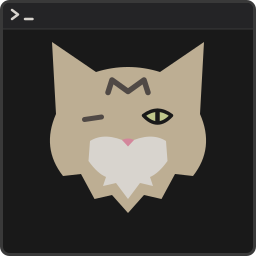
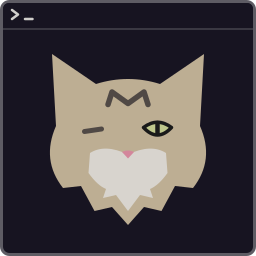
feat: use the built-in GNOME palette and lower Astro's head

Changed region(s): [[0.1875, 0.1562, 0.8125, 0.875], [0.0, 0.0, 1.0, 1.0]]

diff --git a/tests/test_theme.py b/tests/test_theme.py
@@ -1,27 +1,30 @@
 # SPDX-License-Identifier: GPL-3.0-or-later
 import importlib.util
+import json
 from pathlib import Path
 import unittest
 
 ROOT = Path(__file__).resolve().parents[1]
 
 
-class CodexThemeTests(unittest.TestCase):
-    def test_terminal_chrome_uses_paper_and_codex_blue_without_changing_layout(self):
+class GnomeThemeTests(unittest.TestCase):
+    def test_palette_matches_all_sixteen_builtin_gnome_colors(self):
         options = {}
         for line in (ROOT/'config/kitty.conf').read_text().splitlines():
             if line.strip() and not line.lstrip().startswith('#'):
                 key, value = line.split(maxsplit=1)
                 options[key] = value
-        for key in ['foreground','cursor','selection_foreground','window_title_bar_active_foreground','active_tab_foreground','color7','color15']:
-            self.assertEqual(options[key], '#d8d4ce', key)
-        self.assertEqual(options['active_border_color'], '#63a8f8')
-        self.assertEqual(options['window_title_bar_active_background'], '#242426')
-        self.assertEqual(options['background'], '#191919')
+        colors = json.loads((ROOT/'tests/fixtures/gnome-palette.json').read_text())['colors']
+        self.assertEqual(len(colors),16)
+        self.assertEqual([options[f'color{i}'] for i in range(16)],colors)
+        self.assertEqual(options['foreground'], colors[7])
+        self.assertEqual(options['background'], colors[0])
+        self.assertEqual(options['active_border_color'], colors[12])
+        self.assertEqual(options['bold_text_in_bright_colors'], 'no')
         self.assertEqual(options['shell'], '/bin/bash --login')
         self.assertIn('splits:', options['enabled_layouts'])
 
-    def test_agent_badges_share_the_neutral_paper_title_color(self):
+    def test_agent_badges_inherit_the_gnome_title_color(self):
         spec = importlib.util.spec_from_file_location('astro_title_theme', ROOT/'config/window_title_bar.py')
         assert spec is not None and spec.loader is not None
         module = importlib.util.module_from_spec(spec)
@@ -29,7 +32,7 @@ class CodexThemeTests(unittest.TestCase):
         self.assertEqual(set(module._AGENTS), {'claude','codex','hermes'})
         for glyph, name, override in module._AGENTS.values():
             self.assertTrue(glyph and name)
-            self.assertIsNone(override, 'agent names must inherit the Codex-style Paper title')
+            self.assertIsNone(override, 'agent names must inherit the GNOME title color')
 
 
 if __name__ == '__main__':

diff --git a/tools/build_brand.py b/tools/build_brand.py
@@ -17,7 +17,7 @@ def build_logo():
     for child in source:
         if child.tag.rsplit('}', 1)[-1] not in ('title', 'desc'):
             icon.append(child)
-    word = ET.SubElement(logo, f'{{{SVG}}}g', {'transform': 'translate(326 76)', 'fill': 'none', 'stroke': '#d8d4ce', 'stroke-width': '11', 'stroke-linecap': 'square', 'stroke-linejoin': 'round'})
+    word = ET.SubElement(logo, f'{{{SVG}}}g', {'transform': 'translate(326 76)', 'fill': 'none', 'stroke': '#d0cfcc', 'stroke-width': '11', 'stroke-linecap': 'square', 'stroke-linejoin': 'round'})
     letters = [
         'M0 100 30 0 60 100M12 64H48',
         'M60 4H16Q0 4 0 20V31Q0 46 16 49L44 54Q60 57 60 72V83Q60 100 44 100H0',
@@ -27,8 +27,8 @@ def build_logo():
     ]
     for i, letter in enumerate(letters):
         ET.SubElement(word, f'{{{SVG}}}path', d=letter, transform=f'translate({i*134} 0)')
-    ET.SubElement(logo, f'{{{SVG}}}path', {'d': 'M326 217h70', 'stroke': '#63a8f8', 'stroke-width': '5'})
-    text = ET.SubElement(logo, f'{{{SVG}}}text', {'x': '421', 'y': '223', 'fill': '#99968f', 'font-family': 'monospace', 'font-size': '17', 'letter-spacing': '2'})
+    ET.SubElement(logo, f'{{{SVG}}}path', {'d': 'M326 217h70', 'stroke': '#2a7bde', 'stroke-width': '5'})
+    text = ET.SubElement(logo, f'{{{SVG}}}text', {'x': '421', 'y': '223', 'fill': '#5e5c64', 'font-family': 'monospace', 'font-size': '17', 'letter-spacing': '2'})
     text.text = 'QUIET COMPANY. SHARP TOOLS.'
     ET.indent(logo, space='  ')
     ET.ElementTree(logo).write(ROOT / 'assets/astro-logo.svg', encoding='unicode', xml_declaration=False)

diff --git a/tests/test_brand.py b/tests/test_brand.py
@@ -18,6 +18,11 @@ class BrandTests(unittest.TestCase):
         self.assertLessEqual(float(window.get('rx','999')), 20, 'corners must only be slightly rounded')
         self.assertIsNotNone(svg.find(".//*[@id='terminal-titlebar']"))
         self.assertIsNotNone(svg.find(".//*[@id='terminal-prompt']"))
+        head = svg.find(".//*[@id='cat-head']")
+        self.assertIsNotNone(head, 'position the entire cat head as one group')
+        assert head is not None
+        self.assertEqual(head.get('transform'), 'translate(0 24)')
+        self.assertIsNotNone(head.find(".//*[@id='eye-open-viewer-right']"))
         opened = svg.find(".//*[@id='eye-open-viewer-right']")
         closed = svg.find(".//*[@id='eye-closed-viewer-left']")
         self.assertIsNotNone(opened, 'open eye must be on the reference image-right')

diff --git a/tests/test_prompt.py b/tests/test_prompt.py
@@ -21,9 +21,9 @@ class PromptTests(unittest.TestCase):
 
     def test_prompt_uses_astro_colors_and_preserves_shell_placeholders(self):
         prompt = self.prompt()
-        for color in ['216;212;206', '153;150;143', '99;168;248']:
-            self.assertIn('38;2;'+color+'m', prompt)
-        self.assertIn(r'\e[38;2;216;212;206m\]\h', prompt, 'hostname must use Paper, not taupe/grey')
+        self.assertIn(r'\e[37m\]\h', prompt, 'hostname must follow GNOME ANSI white')
+        self.assertIn(r'\e[94m\]', prompt)
+        self.assertNotIn('38;2;', prompt, 'do not override the built-in palette with custom RGB')
         for placeholder in [r'\u', r'\h', r'\w', r'\$']:
             self.assertIn(placeholder, prompt)
         self.assertEqual(prompt.count(r'\['), prompt.count(r'\]'))

diff --git a/config/astro_intro.py b/config/astro_intro.py
@@ -147,9 +147,9 @@ def frame(effect: int, t: float, width: int = 64, height: int = 24) -> list[str]
     return [''.join(row) for row in grid]
 
 
-# Paper/blue chrome follows the terminal; the cat retains its fur and eye colors.
-COLORS = {'fur': '189;165;133', 'cream': '216;212;206', 'eye': '184;187;106',
-          'nose': '211;134;155', 'dim': '153;150;143', 'sky': '99;168;248'}
+# GNOME text/accents follow the terminal; the cat retains its fur and eye colors.
+COLORS = {'fur': '189;165;133', 'cream': '208;207;204', 'eye': '184;187;106',
+          'nose': '211;134;155', 'dim': '94;92;100', 'sky': '42;123;222'}
 
 
 def ansi_frame(rows: list[str], colors: bool = True) -> str:

diff --git a/README.md b/README.md
@@ -18,8 +18,9 @@ pale green eye is on the viewer's right. The icon and both ASCII cat poses keep
 that exact orientation; do not mirror them. The cat stays minimal, without
 detailed whiskers or cheek stripes. Its background is a terminal window with
 only slightly rounded corners (16px radius on a 512px canvas), a title bar and
-a small prompt. Paper text and blue accents connect the icon and wordmark to
-the Codex-style terminal chrome; the cat retains its natural fur and eye colors.
+a small prompt. The entire cat head sits 24 SVG units lower beneath the title
+bar. GNOME palette colors connect the frame and wordmark to the terminal;
+the cat retains its natural fur and eye colors.
 Reference photographs are personal and are not distributed in this repository.
 
 New Bash terminal panes greet you with a short CPU-only ASCII animation:
@@ -46,11 +47,9 @@ python3 ~/.config/kitty/astro_intro.py --effect 6 --duration 3
 
 **Astro Bash prompt**
 
-The familiar `user@host:path$` layout uses Paper (`#d8d4ce`) for the username,
-hostname and directory, muted separators (`#99968f`) and a Codex-blue prompt
-symbol (`#63a8f8`). The Paper tone is sampled from the owner's Codex reference;
-blue matches Codex 0.162.1's documented `UI_ACCENT` / `CHATGPT_BLUE_200` in
-[`style.rs`](https://github.com/openai/codex/blob/rust-v0.162.1/codex-rs/tui/src/style.rs).
+The familiar `user@host:path$` layout uses GNOME ANSI white for the username,
+hostname and directory, muted separators and a bright-blue prompt symbol.
+ANSI palette references replace the former custom RGB prompt colors.
 This is scoped to interactive Kitty Bash sessions; other terminals
 are unchanged. Readline wrapping and kitty's native shell integration remain
 intact. Set `ASTRO_PROMPT=off` to keep your existing prompt; `NO_COLOR` or a dumb
@@ -87,7 +86,7 @@ source ~/.config/kitty/astro_prompt.bash
 
 **Agent-aware panes**
 
-- Panes running `claude`, `codex` or `hermes` get a neutral Paper badge
+- Panes running `claude`, `codex` or `hermes` get a neutral GNOME-colored badge
   (✻ Claude, ›_ Codex, ☤ Hermes). Codex session ids give way to the working
   directory.
 - A red dot marks a pane whose program rang the bell (an agent finished or
@@ -97,9 +96,11 @@ source ~/.config/kitty/astro_prompt.bash
 
 - Splits layout with proportional sizing, a 3 × 3 agent workspace session
   (`config/sessions/default.conf`) plus a monitor column.
-- Codex-style Paper foreground, neutral title bars and blue active borders;
-  semantic ANSI red/green/status colors stay intact (Codex inherits these
-  from the terminal too). Rounded tabs (shown from two tabs on), dimmed inactive panes,
+- The 16 ANSI colors precisely match GNOME Terminal 3.58.0's built-in GNOME
+  palette, recorded from its GSettings schema defaults in
+  `tests/fixtures/gnome-palette.json`. Dark background `#171421`, default text
+  `#d0cfcc` and blue accent `#2a7bde` use that palette too; no GNOME desktop
+  theme switching is implied. Rounded tabs (shown from two tabs on), dimmed inactive panes,
   beam cursor with a short trail, hover-only link underlines.
 - Desktop notification when a long shell command finishes in an unfocused
   pane; trailing spaces are stripped when copying from TUIs.
